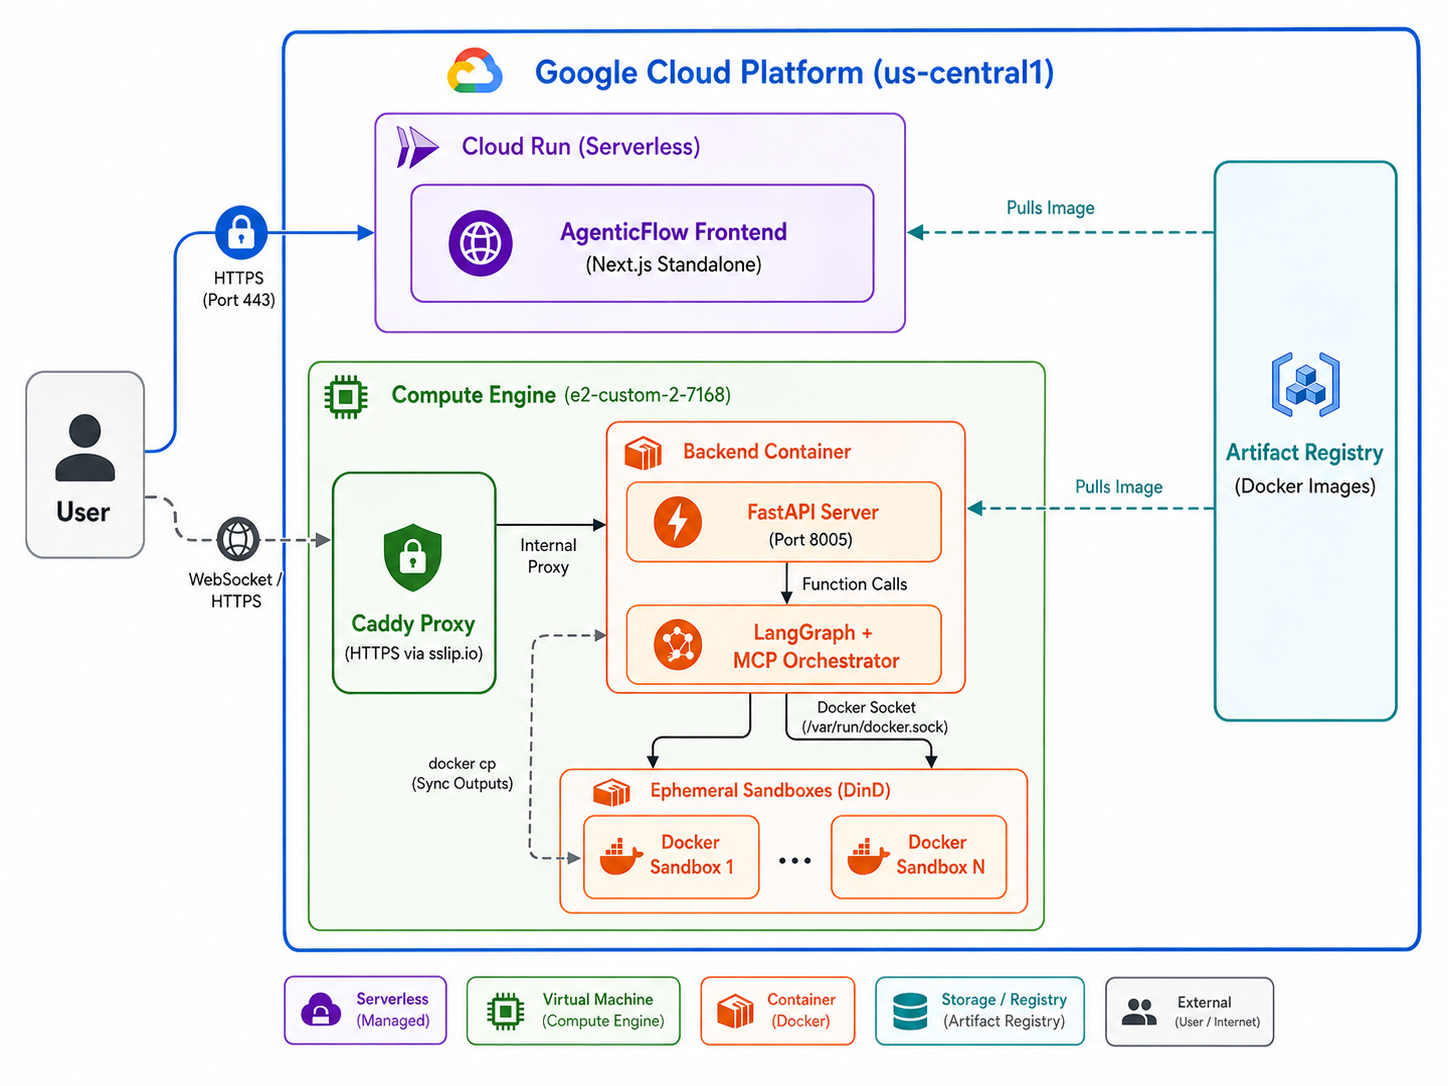
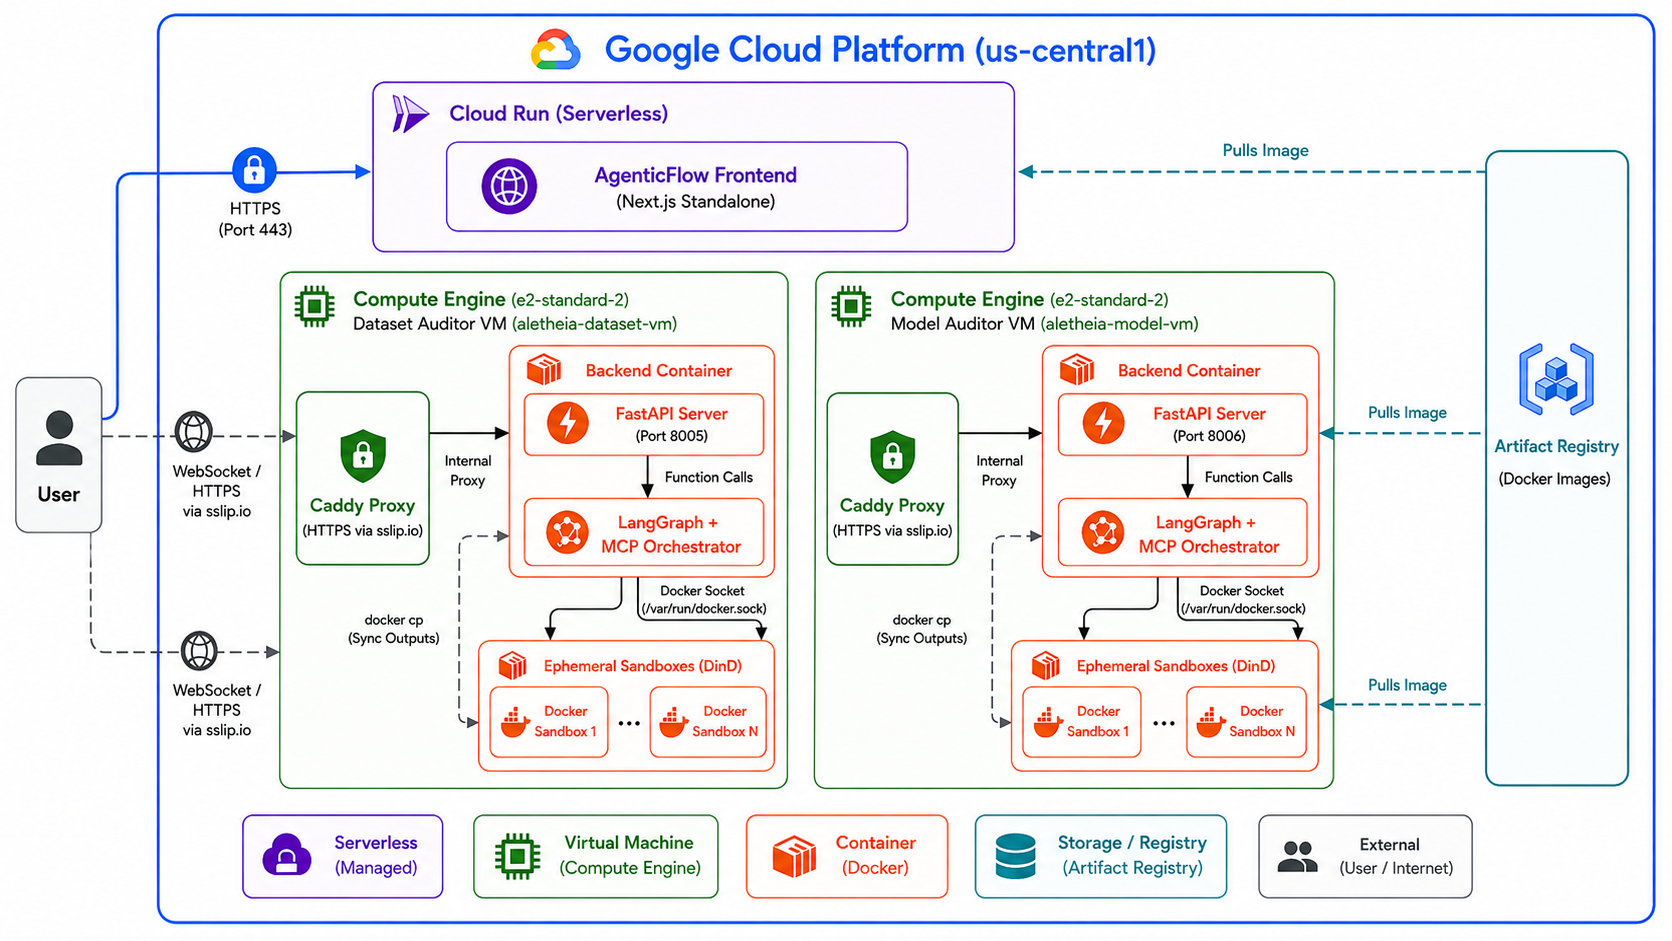
feat(docs): add deployment architecture documentation and update cloud architecture diagram

Changed region(s): [[0.0, 0.0, 0.9945, 0.9862], [0.8702, 0.7396, 0.9012, 0.7705]]

diff --git a/depolyment.md b/depolyment.md
@@ -1,0 +1,82 @@
+# Aletheia AI - Deployment Architecture
+
+This document outlines the dual-VM production deployment architecture for Aletheia AI. We split the backend workloads across two separate Virtual Machines to prevent out-of-memory crashes during heavy LangGraph executions, and host the frontend on serverless infrastructure.
+
+## Infrastructure Overview
+
+```mermaid
+flowchart LR
+    classDef gcp fill:#F8F9FA,stroke:#4285F4,stroke-width:2px,color:#202124,rx:10px,ry:10px
+    classDef serverless fill:#F3E8FF,stroke:#9333EA,stroke-width:2px,color:#4C1D95,rx:5px,ry:5px
+    classDef vm fill:#E6F4EA,stroke:#1E8E3E,stroke-width:2px,color:#0D652D,rx:5px,ry:5px
+    classDef container fill:#FEF7E0,stroke:#F29900,stroke-width:2px,color:#B06000,rx:5px,ry:5px
+    classDef registry fill:#E4F7FB,stroke:#12B5CB,stroke-width:2px,color:#008396,rx:5px,ry:5px
+    classDef user fill:#F1F3F4,stroke:#9AA0A6,stroke-width:2px,color:#202124,rx:10px,ry:10px
+    classDef din fill:#FFFFFF,stroke:#F29900,stroke-width:1px,stroke-dasharray: 5 5,color:#B06000,rx:5px,ry:5px
+
+    User((User)):::user
+
+    subgraph GCP [Google Cloud Platform us-central1]
+        
+        subgraph CloudRun [Cloud Run Serverless]
+            Frontend[AgenticFlow Frontend<br>Next.js Standalone]:::serverless
+        end
+
+        subgraph ArtifactRegistry [Artifact Registry]
+            Images[Docker Images]:::registry
+        end
+
+        subgraph VM1 [Compute Engine e2-standard-2<br>Dataset Auditor VM]
+            direction TB
+            subgraph Backend1 [Backend Container]
+                FastAPI1[FastAPI Server Port 8005]:::container
+                LangGraph1[LangGraph + MCP Orchestrator]:::container
+                FastAPI1 -->|Function Calls| LangGraph1
+            end
+            
+            subgraph DinD1 [Ephemeral Sandboxes DinD]
+                Sandbox1[Docker Sandbox 1 ... Docker Sandbox N]:::din
+            end
+            LangGraph1 -->|/var/run/docker.sock| DinD1
+            DinD1 -.->|docker cp Sync Outputs| Backend1
+        end
+
+        subgraph VM2 [Compute Engine e2-standard-2<br>Model Auditor VM]
+            direction TB
+            subgraph Backend2 [Backend Container]
+                FastAPI2[FastAPI Server Port 8006]:::container
+                LangGraph2[LangGraph + MCP Orchestrator]:::container
+                FastAPI2 -->|Function Calls| LangGraph2
+            end
+            
+            subgraph DinD2 [Ephemeral Sandboxes DinD]
+                Sandbox2[Docker Sandbox 1 ... Docker Sandbox N]:::din
+            end
+            LangGraph2 -->|/var/run/docker.sock| DinD2
+            DinD2 -.->|docker cp Sync Outputs| Backend2
+        end
+    end
+
+    User -->|HTTPS Port 443| Frontend
+    User -.->|WebSocket / HTTPS via sslip.io| FastAPI1
+    User -.->|WebSocket / HTTPS via sslip.io| FastAPI2
+
+    Images -.->|Pulls Image| Frontend
+    Images -.->|Pulls Image| Backend1
+    Images -.->|Pulls Image| Backend2
+
+    class GCP gcp
+    class CloudRun serverless
+    class ArtifactRegistry registry
+    class VM1 vm
+    class VM2 vm
+    class Backend1 container
+    class Backend2 container
+    class DinD1 container
+    class DinD2 container
+```
+
+### Components:
+1. **Frontend (Google Cloud Run):** A serverless Next.js container deployed in `us-central1` that securely routes the user's interface.
+2. **Dataset Auditor VM (`aletheia-dataset-vm`):** A dedicated Compute Engine instance with a reserved static IP, exposing port `8005`. It handles dataset parsing, auditing, and proxy mitigation via its internal Docker Sandbox.
+3. **Model Auditor VM (`aletheia-model-vm`):** A dedicated Compute Engine instance with a reserved static IP, exposing port `8006`. It executes heavy predictive models, generates SHAP values, and runs counterfactual fairness tests.
